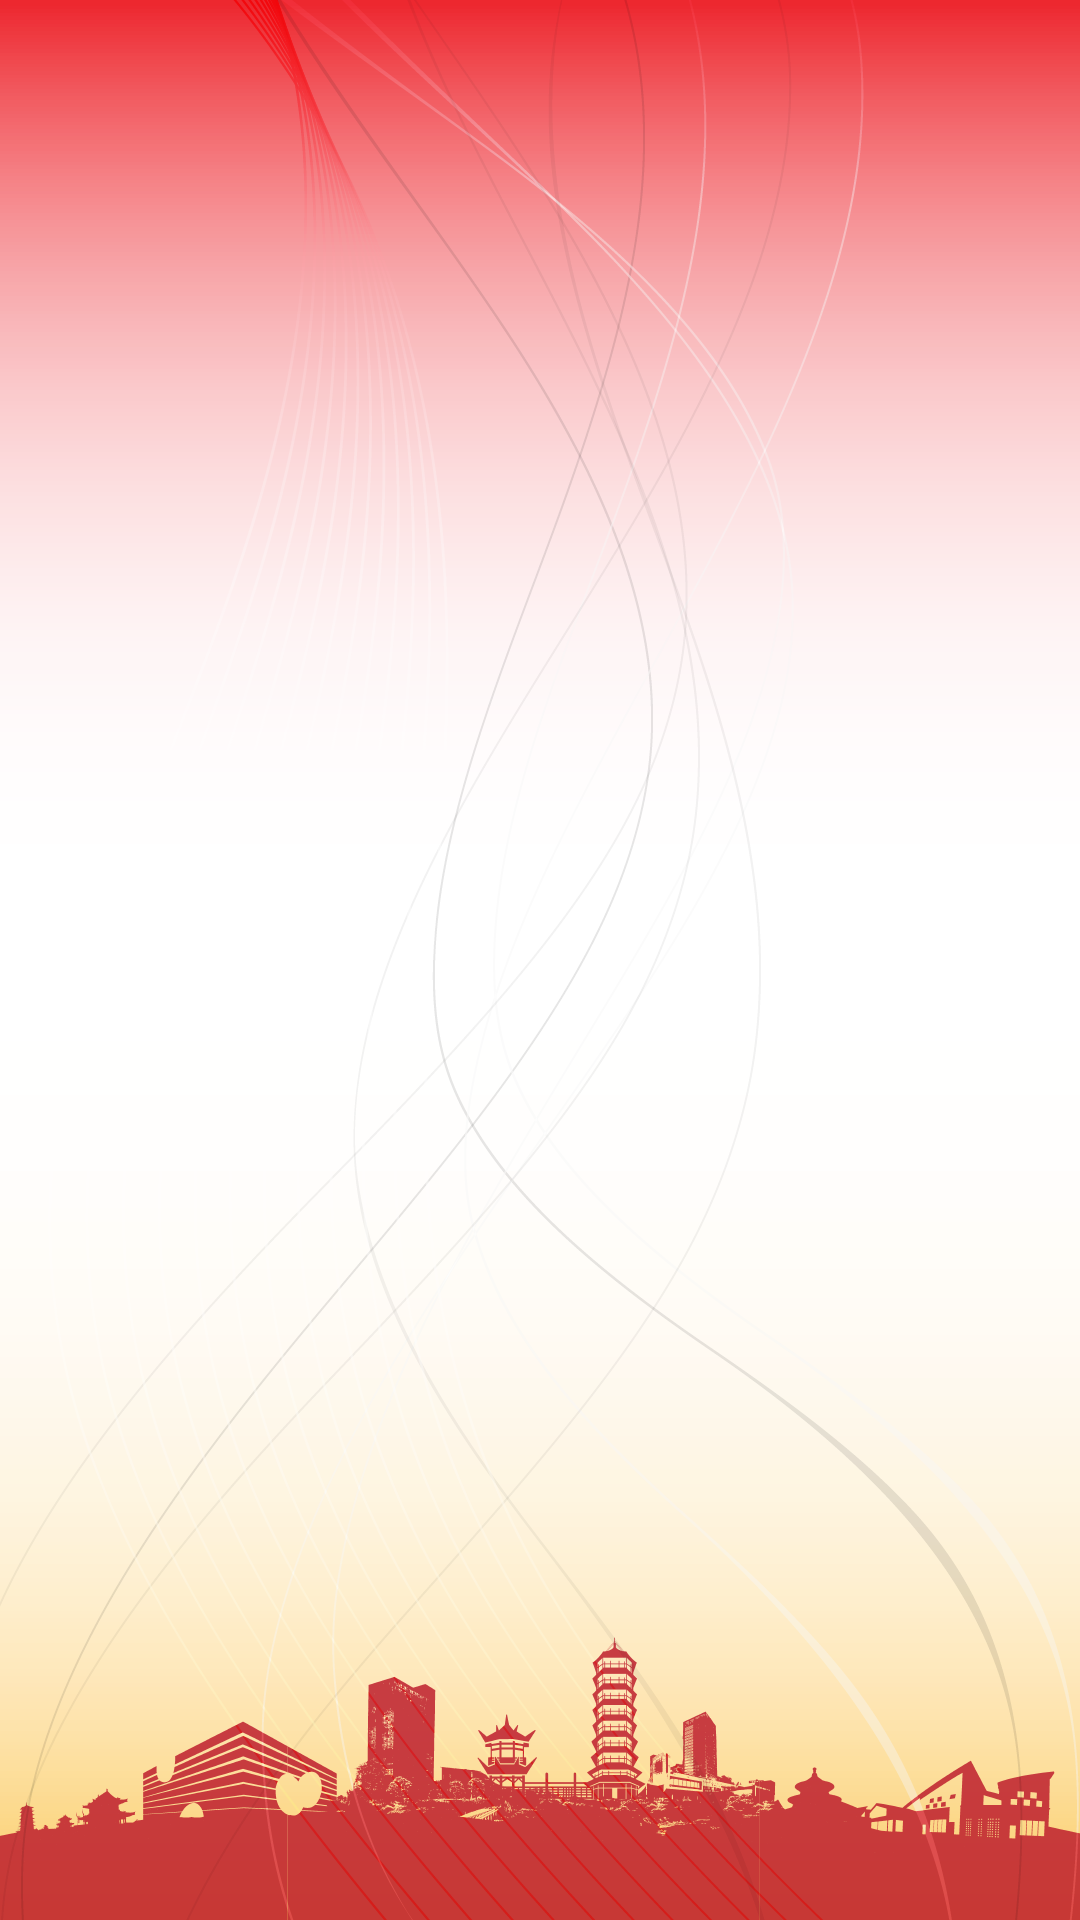
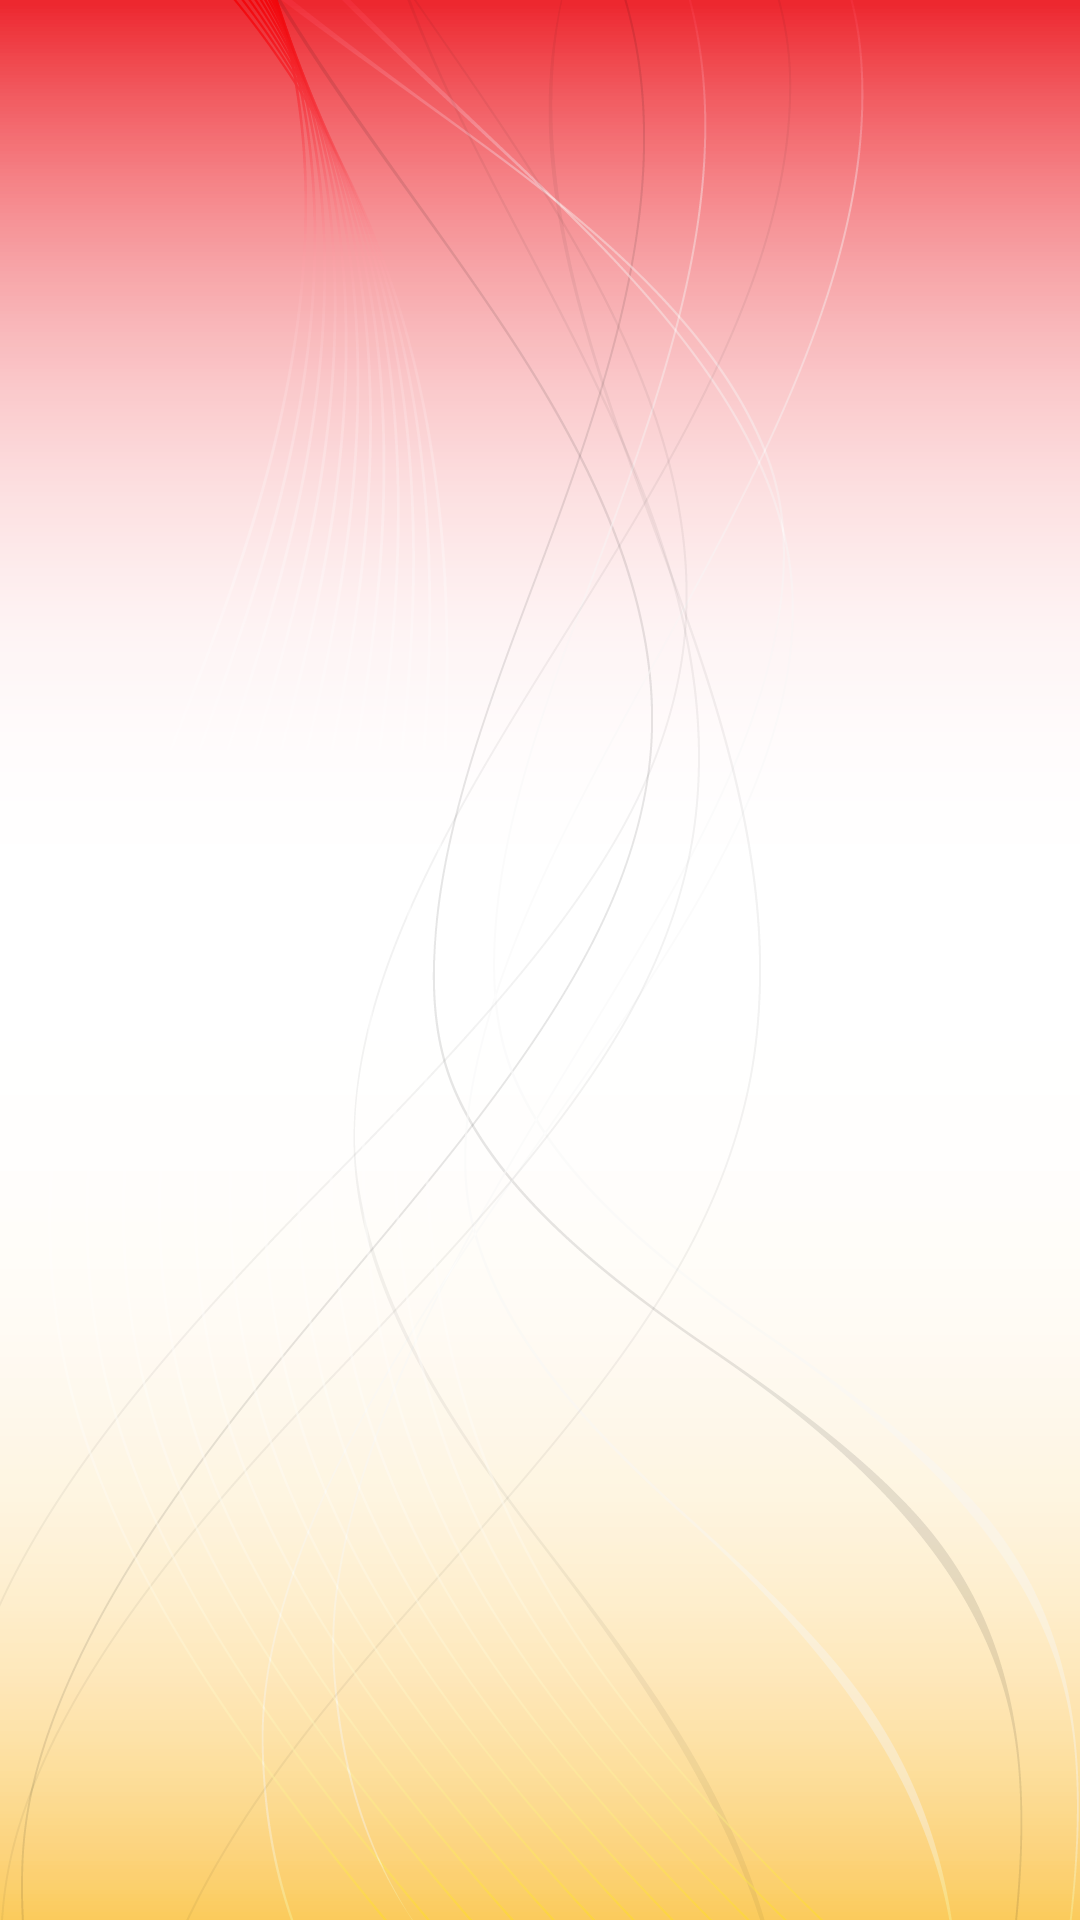
Root page animate bottom

Changed region(s): [[0.0, 0.8438, 1.0, 1.0]]

diff --git a/src/renderer/views/root.vue b/src/renderer/views/root.vue
@@ -19,6 +19,7 @@ export default {
 
 <template lang="pug">
   .main.page-root
+    .bg-bottom
     .entries
       router-link.entry(to="/home")
         img(src="~@/assets/images/root-link-pb.svg")
@@ -36,6 +37,14 @@ export default {
   background-size cover
   display flex
   align-items center
+  .bg-bottom
+    position absolute
+    bottom 0
+    left 0
+    width 100vw
+    height 25vh
+    background url('~@/assets/images/root-bg-bottom.png') bottom repeat-x
+    animation move 30s linear infinite
   .entries
     width 100vw
     display flex
@@ -53,5 +62,9 @@ export default {
         font-weight bold
         line-height 1.1
         margin-top 2vh
-
+@keyframes move
+  0%
+    background-position 0vw 100%
+  100%
+    background-position 100vw 100%
 </style>
